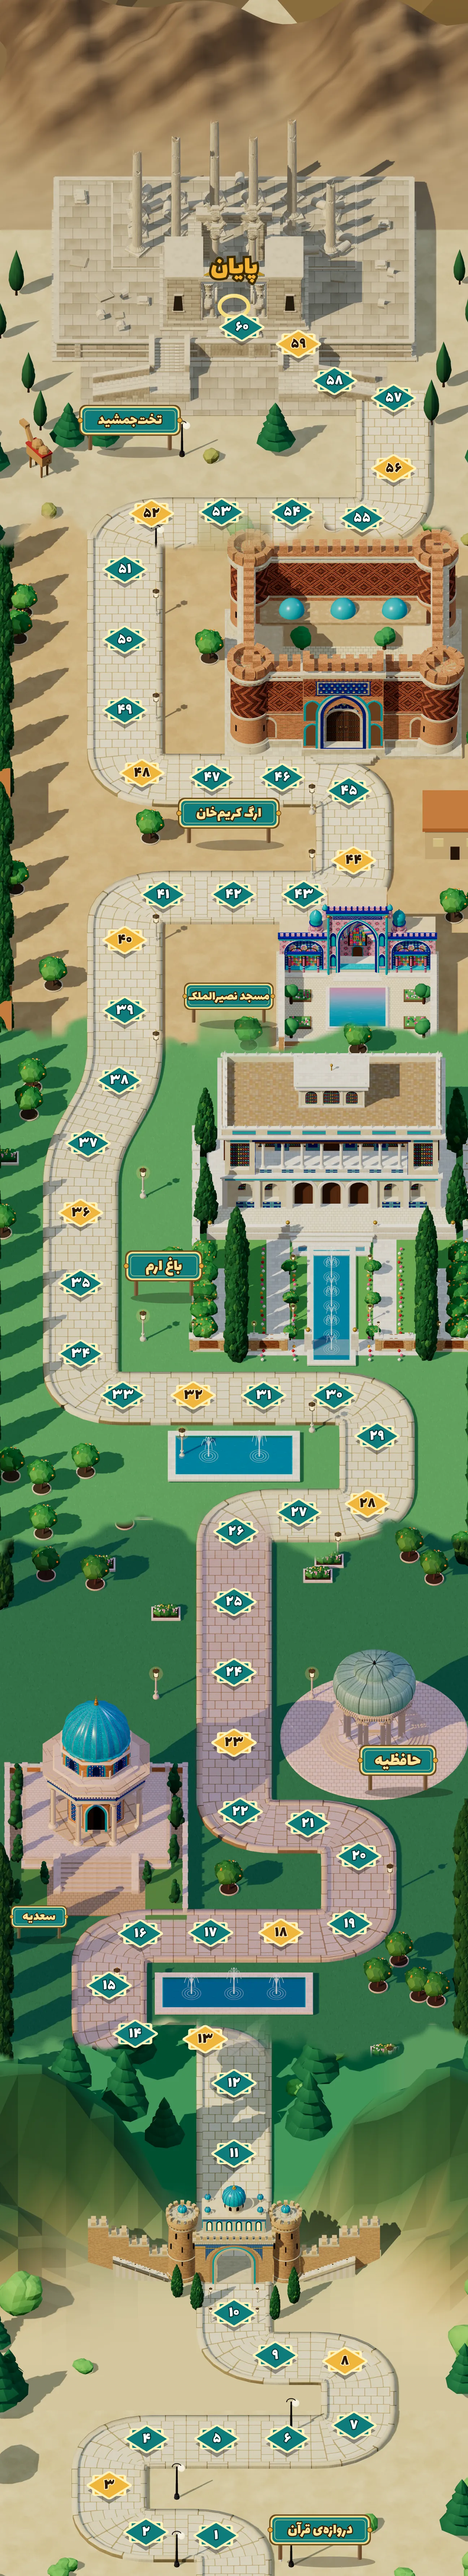
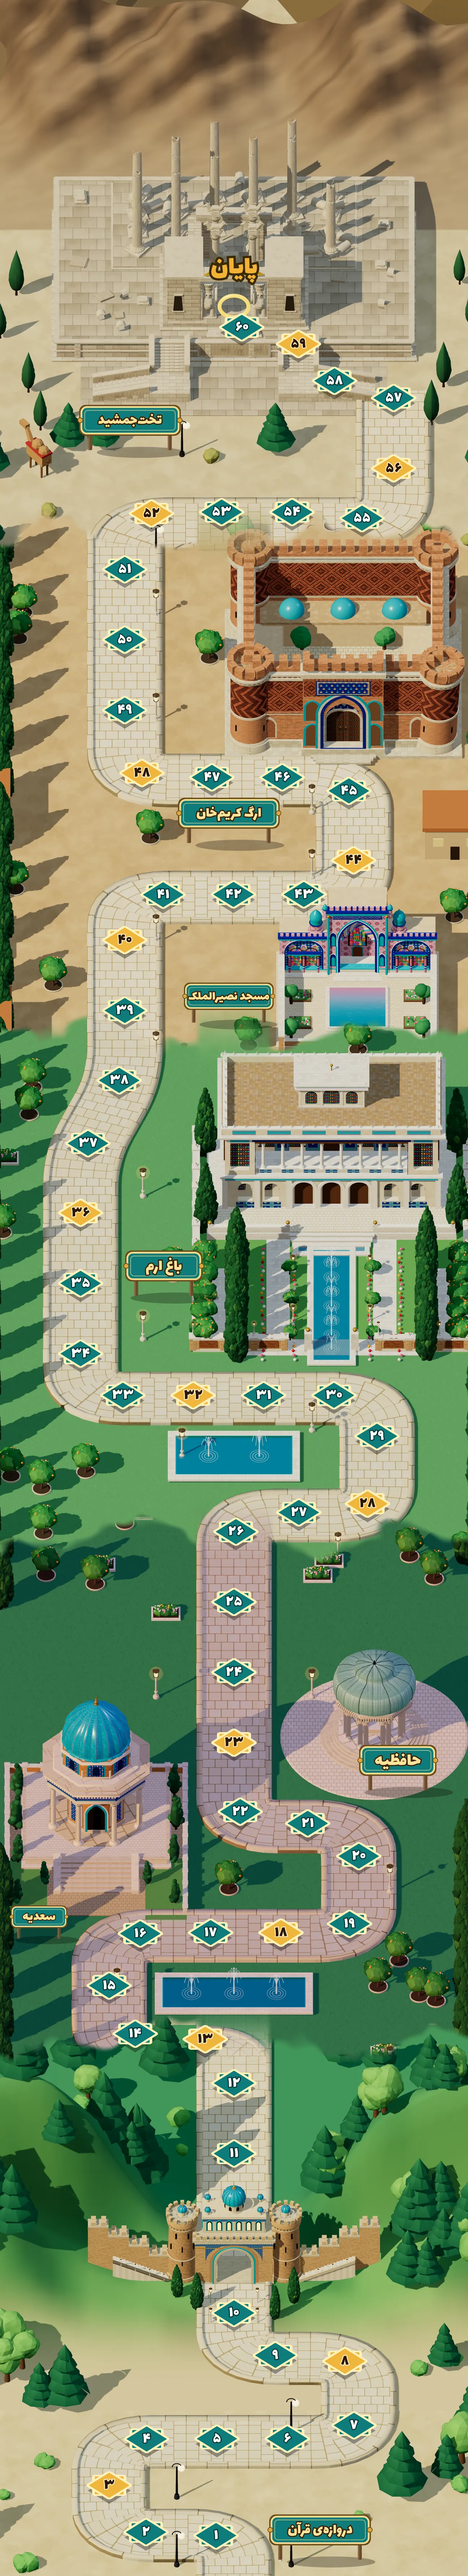
Shiraz board: clean forested hills on both sides of the Quran Gate
Claude-Session: https://claude.ai/code/session_01Rjy4C5wyMsBPrp6gT8ag68

Changed region(s): [[0.0, 0.7786, 1.0, 1.0], [0.463, 0.8409, 0.4938, 0.8721]]

diff --git a/sw.js b/sw.js
@@ -1,5 +1,5 @@
 // نخ بده — offline support
-const CACHE = 'nakh-bede-v73';
+const CACHE = 'nakh-bede-v74';
 // The board image is large; it is fetched after install, in the background, so it
 // never competes with the first screen. (It is also cached the first time it is used.)
 // The board image is fetched by the page itself (it picks the full or the lite size)
